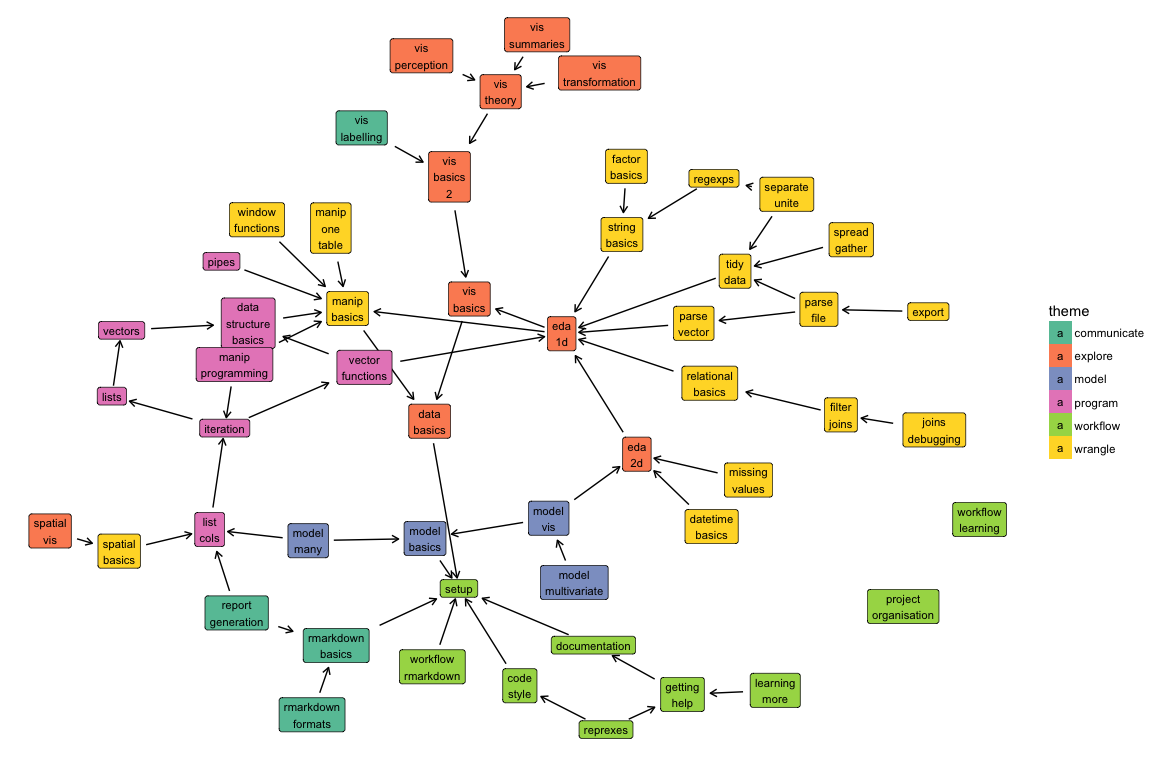
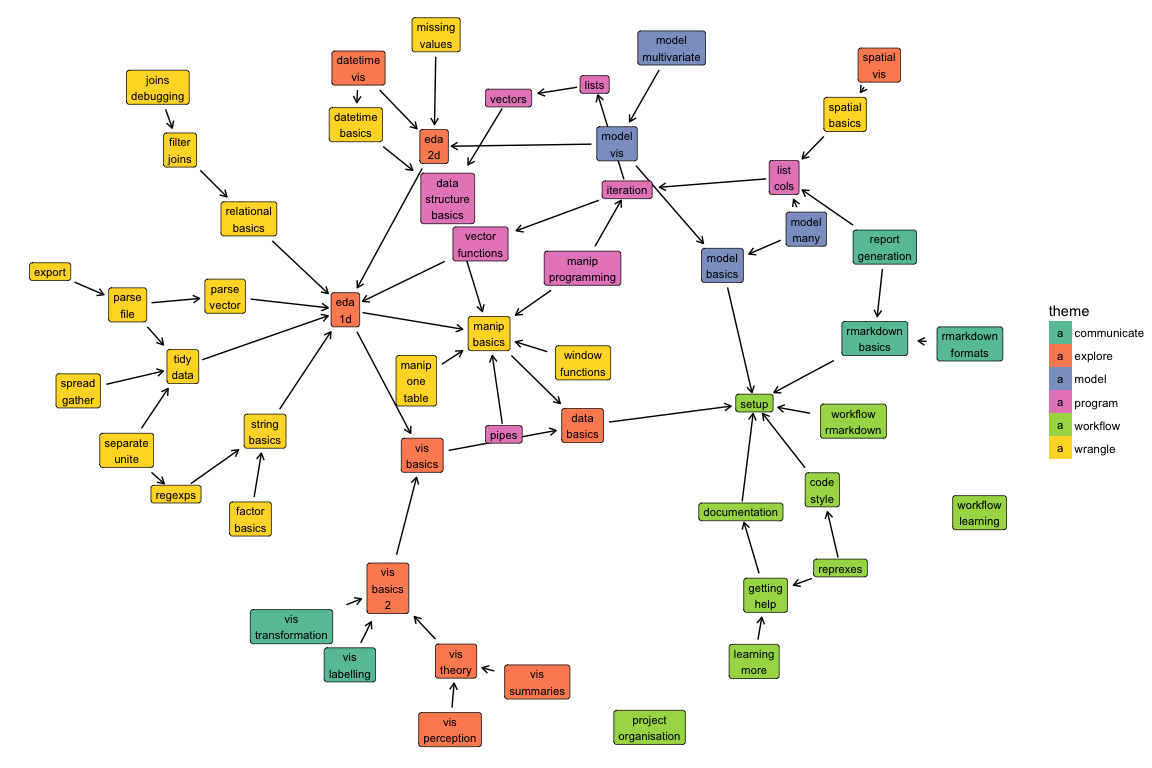
Week 3 updates
Split out datetime-vis

diff --git a/storyboard.md b/storyboard.md
@@ -222,7 +222,7 @@
 |ggplot2-3                             |Toolbox                                           |[vis-basics](https://dcl-2017-01.github.io/curriculum/vis-basics.html)             |                                                                             |                                                                                       |       |       |       |       |       |       |       |
 |ggplot2-4                             |Mastering the grammar                             |                                                                                   |                                                                             |                                                                                       |       |       |       |       |       |       |       |
 |ggplot2-5                             |Build a plot layer by layer                       |                                                                                   |                                                                             |                                                                                       |       |       |       |       |       |       |       |
-|ggplot2-6                             |Scales, axes and legends                          |                                                                                   |                                                                             |[datetime-basics](https://dcl-2017-01.github.io/curriculum/datetime-basics.html)       |       |       |       |       |       |       |       |
+|ggplot2-6                             |Scales, axes and legends                          |                                                                                   |                                                                             |                                                                                       |       |       |       |       |       |       |       |
 |ggplot2-7                             |Positioning                                       |                                                                                   |                                                                             |                                                                                       |       |       |       |       |       |       |       |
 |ggplot2-8                             |Themes                                            |                                                                                   |                                                                             |                                                                                       |       |       |       |       |       |       |       |
 |ggplot2-9                             |Data analysis                                     |                                                                                   |                                                                             |                                                                                       |       |       |       |       |       |       |       |
@@ -399,7 +399,7 @@
 |r4ds-28.1                             |Introduction                                      |                                                                                   |                                                                             |                                                                                       |       |       |       |       |       |       |       |
 |r4ds-28.2                             |Label                                             |                                                                                   |[vis-labelling](https://dcl-2017-01.github.io/curriculum/vis-labelling.html) |                                                                                       |       |       |       |       |       |       |       |
 |r4ds-28.3                             |Annotations                                       |                                                                                   |                                                                             |                                                                                       |       |       |       |       |       |       |       |
-|r4ds-28.4                             |Scales                                            |                                                                                   |                                                                             |                                                                                       |       |       |       |       |       |       |       |
+|r4ds-28.4                             |Scales                                            |                                                                                   |                                                                             |[vis-transformation](https://dcl-2017-01.github.io/curriculum/vis-transformation.html) |       |       |       |       |       |       |       |
 |r4ds-28.5                             |Zooming                                           |                                                                                   |                                                                             |                                                                                       |       |       |       |       |       |       |       |
 |r4ds-28.6                             |Themes                                            |                                                                                   |                                                                             |                                                                                       |       |       |       |       |       |       |       |
 |r4ds-28.7                             |Saving your plots                                 |                                                                                   |                                                                             |                                                                                       |       |       |       |       |       |       |       |

diff --git a/docs/datetime-basics.md b/docs/datetime-basics.md
@@ -5,7 +5,8 @@ title: Date/time basics
 <!-- Generated automatically from datetime-basics.yml. Do not edit by hand -->
 
 # Date/time basics <small class='wrangle'>[wrangle]</small>
-<small>(Builds on: [Exploratory data analysis (2D)](eda-2d.md))</small>
+<small>(Builds on: [Data structure basics](data-structure-basics.md))</small>  
+<small>(Leads to: [Date/time visualisation](datetime-vis.md))</small>
 
 Date/time data includes dates, date-times, and times, but we'll mostly
 focus on dates and date-times. This unit gives you the basic tools you'll
@@ -21,9 +22,5 @@ need to filter and summarise temporal data.
     Read only §16.3.1 (getting components) and §16.3.2 (rounding). These are
     both important for when you want to group by and summarise longer time
     periods.
-
-  * [Scales, axes and legends](http://link.springer.com.ezproxy.stanford.edu/chapter/10.1007/978-3-319-24277-4_6) [ggplot2-6].
-    Read only §6.6.1 focussing on date/time scales. This will allow you to
-    optimise the visualisation of date/time data, if needed.
 
 

diff --git a/docs/vis-transformation.md b/docs/vis-transformation.md
@@ -1,11 +1,11 @@
 ---
-title: Visual transformations
+title: Scales
 ---
 
 <!-- Generated automatically from vis-transformation.yml. Do not edit by hand -->
 
-# Visual transformations <small class='explore'>[explore]</small>
-<small>(Builds on: [The grammar of graphics](vis-theory.md))</small>
+# Scales <small class='communicate'>[communicate]</small>
+<small>(Builds on: [Visualisation basics (2)](vis-basics-2.md))</small>
 
 You've already learned about transformation functions that you use with
 `dplyr::mutate()`. They take one (or more) vectors and return a transformed
@@ -19,8 +19,6 @@ for others to understand. We'll come back to this idea later.
 
 ## Readings
 
-  * [Scales, axes and legends](http://link.springer.com.ezproxy.stanford.edu/chapter/10.1007/978-3-319-24277-4_6) [ggplot2-6].
-    You can skip §6.3 and §6.4: we'll discuss them in detail when we talk more
-    about plots for communication.
+  * [Scales](http://r4ds.had.co.nz/graphics-for-communication.html#scales) [r4ds-28.4]
 
 

diff --git a/docs/data-structure-basics.md b/docs/data-structure-basics.md
@@ -6,7 +6,7 @@ title: Data structure basics
 
 # Data structure basics <small class='program'>[program]</small>
 <small>(Builds on: [Manipulation basics](manip-basics.md))</small>  
-<small>(Leads to: [Vector functions](vector-functions.md), [Atomic vectors](vectors.md))</small>
+<small>(Leads to: [Date/time basics](datetime-basics.md), [Vector functions](vector-functions.md), [Atomic vectors](vectors.md))</small>
 
 
 It's helpful to know a little bit about how data structures are organised in R. The simplest data structure in R is the vector, which can be broken up in to atomic vectors and augmented vectors. Vectors of related data are organised together in tibbles and data.frames.

diff --git a/docs/eda-2d.md b/docs/eda-2d.md
@@ -6,7 +6,7 @@ title: Exploratory data analysis (2D)
 
 # Exploratory data analysis (2D) <small class='explore'>[explore]</small>
 <small>(Builds on: [Exploratory data analysis (1D)](eda-1d.md))</small>  
-<small>(Leads to: [Date/time basics](datetime-basics.md), [Missing values](missing-values.md), [Visualising models](model-vis.md))</small>
+<small>(Leads to: [Date/time visualisation](datetime-vis.md), [Missing values](missing-values.md), [Visualising models](model-vis.md))</small>
 
 Exploratory data analysis is partly a set of techniques, but is mostly a
 mindset: you want to remain open to what the data is telling you.

diff --git a/docs/datetime-vis.md b/docs/datetime-vis.md
@@ -1,0 +1,17 @@
+---
+title: Date/time visualisation
+---
+
+<!-- Generated automatically from datetime-vis.yml. Do not edit by hand -->
+
+# Date/time visualisation <small class='explore'>[explore]</small>
+<small>(Builds on: [Date/time basics](datetime-basics.md), [Exploratory data analysis (2D)](eda-2d.md))</small>
+
+
+## Readings
+
+  * [Scales, axes and legends](http://link.springer.com.ezproxy.stanford.edu/chapter/10.1007/978-3-319-24277-4_6) [ggplot2-6].
+    Read only §6.6.1 focussing on date/time scales. This will allow you to
+    optimise the visualisation of date/time data, if needed.
+
+

diff --git a/docs/vis-theory.md b/docs/vis-theory.md
@@ -6,7 +6,7 @@ title: The grammar of graphics
 
 # The grammar of graphics <small class='explore'>[explore]</small>
 <small>(Builds on: [Visualisation basics (2)](vis-basics-2.md))</small>  
-<small>(Leads to: [Perception](vis-perception.md), [Grouped summaries](vis-summaries.md), [Visual transformations](vis-transformation.md))</small>
+<small>(Leads to: [Perception](vis-perception.md), [Grouped summaries](vis-summaries.md))</small>
 
 Now is a good time to learn a bit more about the underlying theory
 of ggplot2. Read these two short chapters to familiarise yourself

diff --git a/docs/vis-basics-2.md b/docs/vis-basics-2.md
@@ -6,7 +6,7 @@ title: Visualisation basics (2)
 
 # Visualisation basics (2) <small class='explore'>[explore]</small>
 <small>(Builds on: [Visualisation basics (1)](vis-basics.md))</small>  
-<small>(Leads to: [Labelling your graphics](vis-labelling.md), [The grammar of graphics](vis-theory.md))</small>
+<small>(Leads to: [Labelling your graphics](vis-labelling.md), [The grammar of graphics](vis-theory.md), [Scales](vis-transformation.md))</small>
 
 Now it's time to learn some more of the components that make up ggplot2.
 

diff --git a/docs/window-functions.md b/docs/window-functions.md
@@ -15,6 +15,6 @@ grouped `mutate()`s and `filter()`s, rather than grouped `summarise()`s.
 
   * [Grouped mutates (and filters)](http://r4ds.had.co.nz/transform.html#grouped-mutates-and-filters) [r4ds-5.7]
 
-  * [https://cran.r-project.org/web/packages/dplyr/vignettes/window-functions.html](https://cran.r-project.org/web/packages/dplyr/vignettes/window-functions.html)
+  * [http://dplyr.tidyverse.org/articles/window-functions.html](http://dplyr.tidyverse.org/articles/window-functions.html)
 
 

diff --git a/docs/index.md b/docs/index.md
@@ -122,6 +122,12 @@ title: Theme index
 </tr>
 <tr>
 <td></td>
+  <td colspan="4"></td>
+  <td colspan="3"><a class="communicate" href="vis-transformation.html">Scales</a></td>
+  <td colspan="1"></td>
+</tr>
+<tr>
+<td></td>
   <td colspan="1"></td>
   <td colspan="3"><a class="wrangle" href="spread-gather.html">Spreading and gathering</a></td>
   <td colspan="4"></td>
